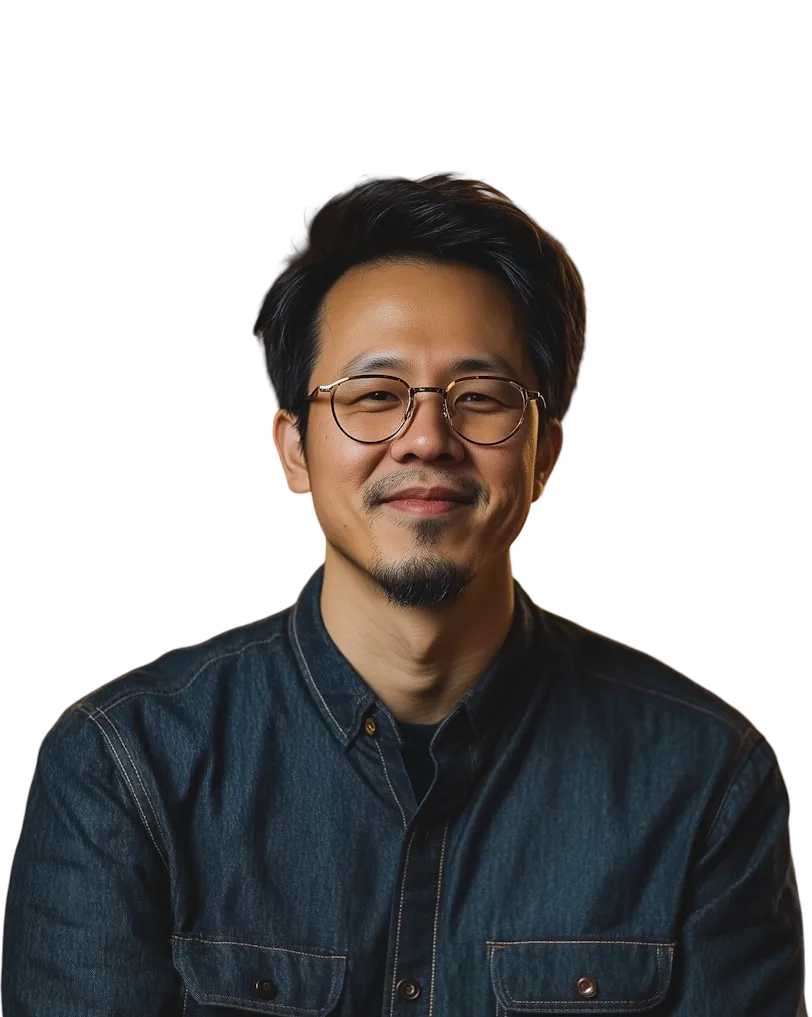
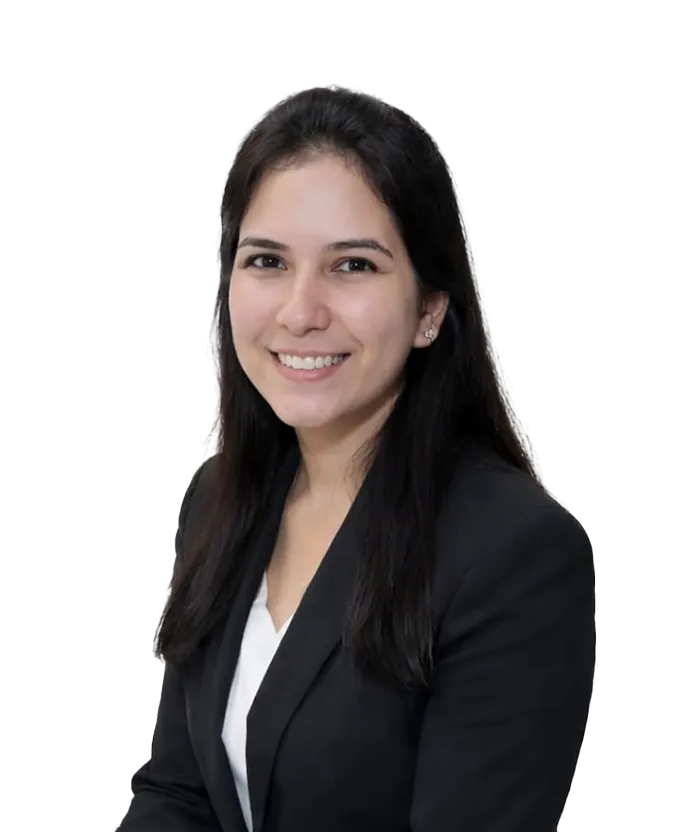
feat(TestSeries): Implement smooth scroll to reserve form and update button text

diff --git a/src/components/test-series/choose-app.jsx b/src/components/test-series/choose-app.jsx
@@ -19,6 +19,21 @@ const IBCurriculumStages = () => {
     return () => window.removeEventListener("resize", handleResize);
   }, []);
 
+  const scrollToForm = (e) => {
+    e.preventDefault();
+    const element = document.getElementById('reserve-form-section');
+    if (element) {
+      const headerOffset = 100;
+      const elementPosition = element.getBoundingClientRect().top;
+      const offsetPosition = elementPosition + window.pageYOffset - headerOffset;
+
+      window.scrollTo({
+        top: offsetPosition,
+        behavior: "smooth"
+      });
+    }
+  };
+
   const cardItems = [
     {
       type: "left",
@@ -163,38 +178,33 @@ const IBCurriculumStages = () => {
           <div
             className="d-flex justify-content-center pt-3"
           >
-            <a
-              href="/join-free-demo-class"
-              style={{ textDecoration: "none" }}
+            <button
+              className="btn cust-text fw-bold d-flex align-items-center rounded-pill"
+              style={{
+                background: "linear-gradient(90deg,#161664, #3F88BA)",
+                color: "white",
+                padding: "12px 14px 12px 20px",
+                border: "none",
+                transition: "opacity 0.3s ease",
+                fontSize: "clamp(0.9rem, 1.1vw, 1.1rem)",
+              }}
+              onMouseEnter={(e) => (e.target.style.opacity = "0.9")}
+              onMouseLeave={(e) => (e.target.style.opacity = "1")}
+              onClick={scrollToForm}
             >
-              <button
-                className="btn cust-text fw-bold d-flex align-items-center rounded-pill"
+              Reserve Your Test Slots Now
+              <div
+                className="custom-height rounded-circle d-flex align-items-center justify-content-center"
                 style={{
-                  background: "linear-gradient(90deg,#161664, #3F88BA)",
-                  color: "white",
-                  padding: "12px 14px 12px 20px",
-                  border: "none",
-                  transition: "opacity 0.3s ease",
-
-                  fontSize: "clamp(0.9rem, 1.1vw, 1.1rem)",
+                  width: "2.5rem",
+                  height: "2.5rem",
+                  background: "linear-gradient(90deg, #E7F6FF, #A3CAF5)",
+                  marginLeft: "2.1rem",
                 }}
-                onMouseEnter={(e) => (e.target.style.opacity = "0.9")}
-                onMouseLeave={(e) => (e.target.style.opacity = "1")}
               >
-                Get A Free Demo
-                <div
-                  className="custom-height rounded-circle d-flex align-items-center justify-content-center"
-                  style={{
-                    width: "2.5rem",
-                    height: "2.5rem",
-                    background: "linear-gradient(90deg, #E7F6FF, #A3CAF5)",
-                    marginLeft: "2.1rem",
-                  }}
-                >
-                  <Image src="/assets/arrowright.webp" alt="arrright" width={16} height={16} />
-                </div>
-              </button>
-            </a>
+                <Image src="/assets/arrowright.webp" alt="arrright" width={16} height={16} />
+              </div>
+            </button>
           </div>
         </div>
       </section>

diff --git a/src/components/test-series/IgniteAchievements.jsx b/src/components/test-series/IgniteAchievements.jsx
@@ -16,6 +16,21 @@ export default function IgniteAchievements() {
 
     return () => window.removeEventListener('resize', checkDevice);
   }, []);
+
+  const scrollToForm = (e) => {
+    e.preventDefault();
+    const element = document.getElementById('reserve-form-section');
+    if (element) {
+      const headerOffset = 100;
+      const elementPosition = element.getBoundingClientRect().top;
+      const offsetPosition = elementPosition + window.pageYOffset - headerOffset;
+
+      window.scrollTo({
+        top: offsetPosition,
+        behavior: "smooth"
+      });
+    }
+  };
   return (
     <div className="mobileign fade-in-section" data-scroll
       data-scroll-class="is-inview"
@@ -134,8 +149,9 @@ export default function IgniteAchievements() {
                   }}
                   onMouseEnter={(e) => e.target.style.opacity = "0.9"}
                   onMouseLeave={(e) => e.target.style.opacity = "1"}
+                  onClick={scrollToForm}
                 >
-                  GET A FREE DEMO
+                  Reserve Your Test Slots Now
                   <div
                     className="custom-height rounded-circle d-flex align-items-center justify-content-center"
                     style={{
@@ -217,8 +233,9 @@ export default function IgniteAchievements() {
               }}
               onMouseEnter={(e) => e.target.style.opacity = "0.9"}
               onMouseLeave={(e) => e.target.style.opacity = "1"}
+              onClick={scrollToForm}
             >
-              GET FREE DEMO
+              Reserve Your Test Slots Now
               <div
                 className="custom-height rounded-circle d-flex align-items-center justify-content-center"
                 style={{

diff --git a/src/components/test-series/InfoCardLeft.jsx b/src/components/test-series/InfoCardLeft.jsx
@@ -158,10 +158,15 @@ export default function InfoCardLeft({ onReserveClick }) {
                             padding: "10px 15px",
                             boxShadow: "2px 4px 8px rgba(38, 66, 149, 0.5)",
                             minWidth: "auto",
-                            gap: "20px",
+                            gap: "10px",
                         }}
                     >
-                        <span style={{ letterSpacing: "0px" }}>
+                        <span style={{
+                            letterSpacing: "0px",
+                            textAlign: "left",
+                            lineHeight: "1.2",
+                            flex: "1"
+                        }}>
                             Reserve Your Test Slots Now
                         </span>
                         <img
@@ -176,6 +181,20 @@ export default function InfoCardLeft({ onReserveClick }) {
             </div>
 
             <style jsx>{`
+        .left-btn span {
+            text-align: left;
+        }
+        @media (max-width: 575px) {
+            .left-btn {
+                padding: 10px 16px !important;
+                width: 100%;
+                max-width: 320px;
+            }
+            .left-btn span {
+                font-size: 0.9rem !important;
+                text-align: left !important;
+            }
+        }
         .info-row {
           -webkit-mask-image: linear-gradient(to right, rgba(0, 0, 0, 0), rgba(0, 0, 0, 1) 20%);
           -webkit-mask-repeat: no-repeat;

diff --git a/src/pages/test-series.js b/src/pages/test-series.js
@@ -47,7 +47,7 @@ const TestSeries = ({ headerHeight }) => {
                 className='innerpage page-content-padding'
                 style={{ paddingTop: `${headerHeight}px` }}
             >
-                <section data-scroll-section className="hero-section">
+                <section data-scroll-section className="hero-section" id="reserve-form-section">
                     <div className="hero-container">
                         <picture className="hero-bg">
                             <source media="(max-width: 768px)" srcSet="/assets/mobileact.webp" />
